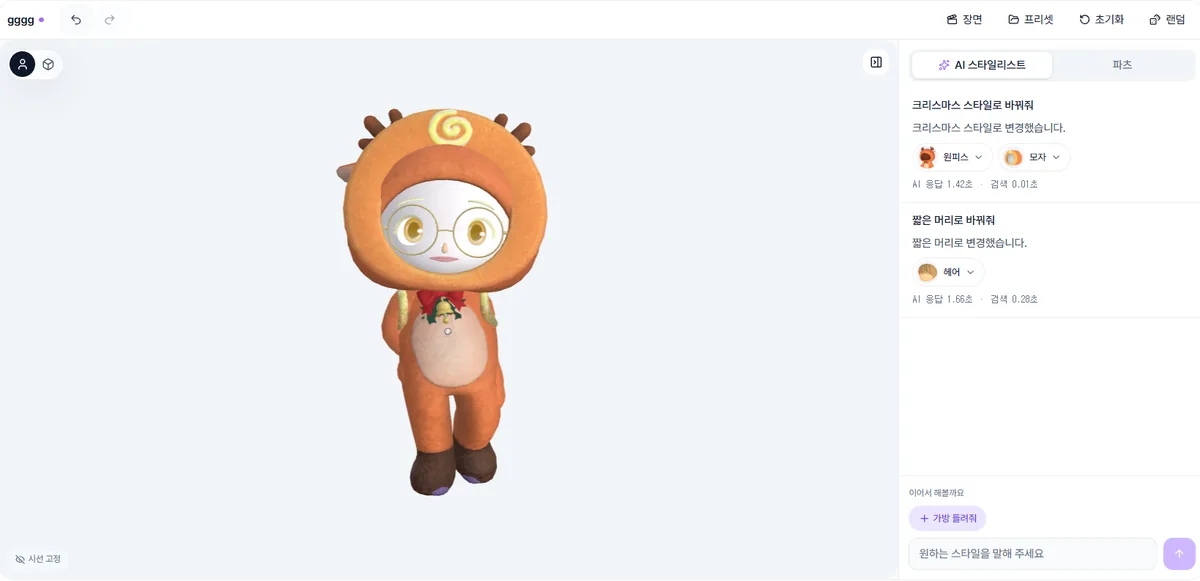
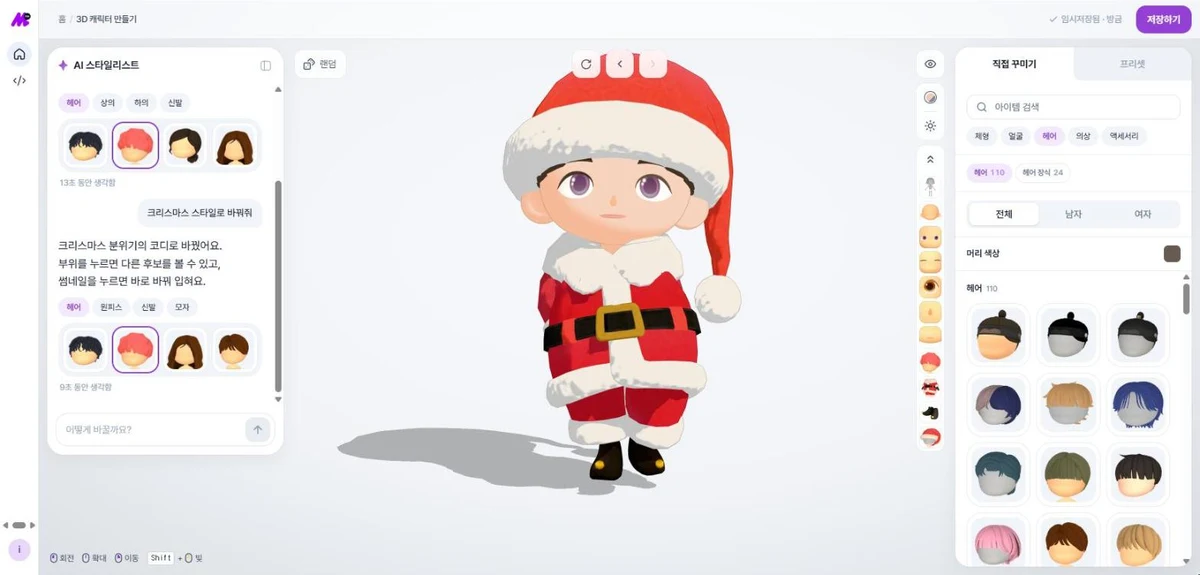
Moiime를 검증·판단 중심으로 정리하고 스크린샷 교체
Claude-Session: https://claude.ai/code/session_01QAPy1fTwqPHsq9s9oaDGTd

diff --git a/src/data/details/moiime.ts b/src/data/details/moiime.ts
@@ -4,34 +4,44 @@ export const moiimeDetail: ProjectDetail = {
   id: "moiime",
   sections: [
     {
-      title: "해시 기반 에셋 버전 관리와 증분 빌드",
+      title: "AI 조립 결과 검증",
       bullets: [
-        "**버전 단위:** 에셋 버전을 해시로 식별",
-        "**롤백:** 버전 포인터를 바꿔 이전 버전으로 교체하므로 되돌리기가 쉬움",
-        "**증분 빌드:** 변경된 에셋만 올림",
-      ],
-    },
-    {
-      title: "라벨링과 에셋 뷰어",
-      bullets: [
-        "에셋에 **라벨**을 붙여 자연어 파츠 검색에 활용",
-        "버전별 에셋을 볼 수 있는 **에셋 뷰어** 제공",
+        "**문제:** 남성 바디에 스커트가 붙고(반대 성별 옷 10%), 카탈로그에 없는 컨셉을 요청하면 유사도 낮은 옷이 1위로 올라옴. 프롬프트 규칙으로는 막히지 않음",
+        "**방식:** 성별과 컨셉 판정을 코드 필터로 옮기고, 체형과 맞지 않는 파츠는 에러 없이 실루엣만 깨지므로 조립 전에 제외",
+        "**결과:** 72문장 평가에서 기대 파츠 적중 ==50% → 91%==, 반대 성별 옷 혼입 ==22/230 → 0/509==. 같은 평가로 LLM을 비교해 바꾼 뒤 호출당 비용 ==1/46==",
       ],
       images: [
         {
           src: "/project-details/moiime/ai-stylist.webp",
-          alt: "아바타 편집 화면. 오른쪽 AI 스타일리스트 패널에 '크리스마스 스타일로 바꿔줘' 요청과 바뀐 원피스·모자 파츠, 응답·검색 시간이 표시됨",
+          alt: "아바타 편집 화면. 왼쪽 AI 스타일리스트 패널에서 '크리스마스 스타일로 바꿔줘' 요청 후 산타 모자와 옷으로 바뀐 캐릭터와 부위별 후보 파츠가 표시됨",
           width: 1200,
-          height: 581,
-          caption: "자연어로 파츠를 바꾸는 AI 스타일리스트",
+          height: 575,
+          caption: "문장으로 만든 캐릭터를 '크리스마스 스타일로 바꿔줘'로 수정한 화면",
         },
       ],
     },
     {
-      title: "에셋 암호화",
+      title: "검색 방식 결정",
       bullets: [
-        "파츠 에셋과 파츠를 조립하기 위한 **메타데이터**를 암호화",
-        "복호화는 **인증 서버**에서 수행",
+        "**비교:** 질의 43개로 Hit@1 측정. 키워드만 0.930, 텍스트 임베딩만 0.884, **둘을 합친 방식 0.953(채택)**, 이미지 임베딩까지 넣으면 0.814",
+        "**합친 이유:** 키워드는 \"숏컷 짧은 머리\"나 분위기 단어를 놓치고, 임베딩은 긴팔과 반팔처럼 반대 의미를 가깝게 봄. 점수 분포가 달라 순위로 합침(RRF)",
+        "**단순하게 둔 것:** 1,464개 × 256차원은 1.5MB라 벡터 인덱스 없이 메모리에서 비교(1ms 미만)",
+      ],
+    },
+    {
+      title: "해시 기반 에셋 발행",
+      bullets: [
+        "**문제:** 사람이 붙인 release 이름이 동시 발행 때 서로 덮어씀",
+        "**방식:** 내용 해시를 release로 써서 같은 내용은 같은 release, 다른 내용은 다른 폴더가 되게 함. 락과 동결 기능 없이 해결하고, 바뀐 파일만 업로드",
+        "**release 지정 일원화:** 웹·SDK·생성 서버가 서로 다른 release를 가리키던 문제를 API 한 곳에서 내려주도록 정리",
+      ],
+    },
+    {
+      title: "에셋 보호",
+      bullets: [
+        "**발견:** 시험에서 공개 키 하나로 파일 8,300개를 2초 만에 받을 수 있음을 확인",
+        "**대응:** 세션별 하루 요청 한도(관찰 모드로 먼저 적용)와 키별 합계 초과 시 Slack 알림 추가",
+        "**한계 인정:** 화면에 그려진 모델은 완전히 막을 수 없어 대량 다운로드 감지와 워터마크로 대응",
       ],
     },
   ],

diff --git a/src/data/projects.ts b/src/data/projects.ts
@@ -63,15 +63,14 @@ export const projects: Project[] = [
     details: moiimeDetail,
     icon: "/project-icons/moiime.webp",
     period: "2026.06 ~ 현재",
-    role: "검색, 백엔드, SDK, 에셋 파이프라인, 인프라 개발",
-    summary: "자연어로 아바타 파츠를 검색하고 조립하며, 에셋 버전 관리와 SDK로 외부 서비스 연동을 지원하는 3D 아바타 에셋 SaaS",
+    role: "AI 조립·검색, 서버, 에셋 발행 개발",
+    summary: "문장으로 3D 아바타를 조립해 내려받거나 SDK로 외부 서비스에서 쓰는 3D 아바타 SaaS",
     bullets: [
-      "**자연어 파츠 검색·조립:** 자연어 요청에서 파츠별 프롬프트를 추출하고 텍스트·이미지 임베딩과 렉시컬을 결합한 **하이브리드 검색**으로 파츠를 골라 아바타로 조립",
-      "**에셋 버전 관리:** 버전을 해시로 식별하고 버전 포인터만 바꿔 **롤백**을 쉽게 하며, 변경된 것만 올리는 **증분 빌드**로 배포",
-      "**외부 서비스 연동:** SDK와 문서 제작, API key 인증 구현. 데모 게임에 SDK를 연동해 사용성 검증",
-      "앱, 인증 시스템, 아바타 생성 서버 설계 및 구현",
+      "**AI 조립 품질:** 프롬프트로 막히지 않던 오류(남성 바디에 스커트, 없는 컨셉에 엉뚱한 옷)를 코드 규칙과 조합 검증으로 옮김. 72문장 평가에서 기대 파츠 적중 ==50% → 91%==, 반대 성별 옷 혼입 ==10% → 0건==",
+      "**검색 방식은 측정으로 결정:** 질의 43개로 비교해 키워드와 텍스트 임베딩을 합치는 방식 채택(Hit@1 ==0.953==). 성능을 떨어뜨린 이미지 임베딩은 빼고, 파츠 1,464개는 벡터 인덱스 없이 메모리에서 비교(1ms 미만)",
+      "**에셋 발행:** 사람이 붙인 release 이름이 동시 발행 때 서로 덮어쓰던 문제를 내용 해시로 바꿔 락 없이 해결하고, 바뀐 파일만 업로드",
     ],
-    tech: ["TypeScript", "NestJS", "React", "Tailwind CSS v4", "three.js", "PostgreSQL", "MongoDB", "Vector Search", "S3", "CDN"],
+    tech: ["TypeScript", "NestJS", "PostgreSQL", "MongoDB", "Voyage", "S3", "CloudFront"],
     links: [{ label: "moii.me", url: "https://moii.me" }],
     kind: "work",
   },
